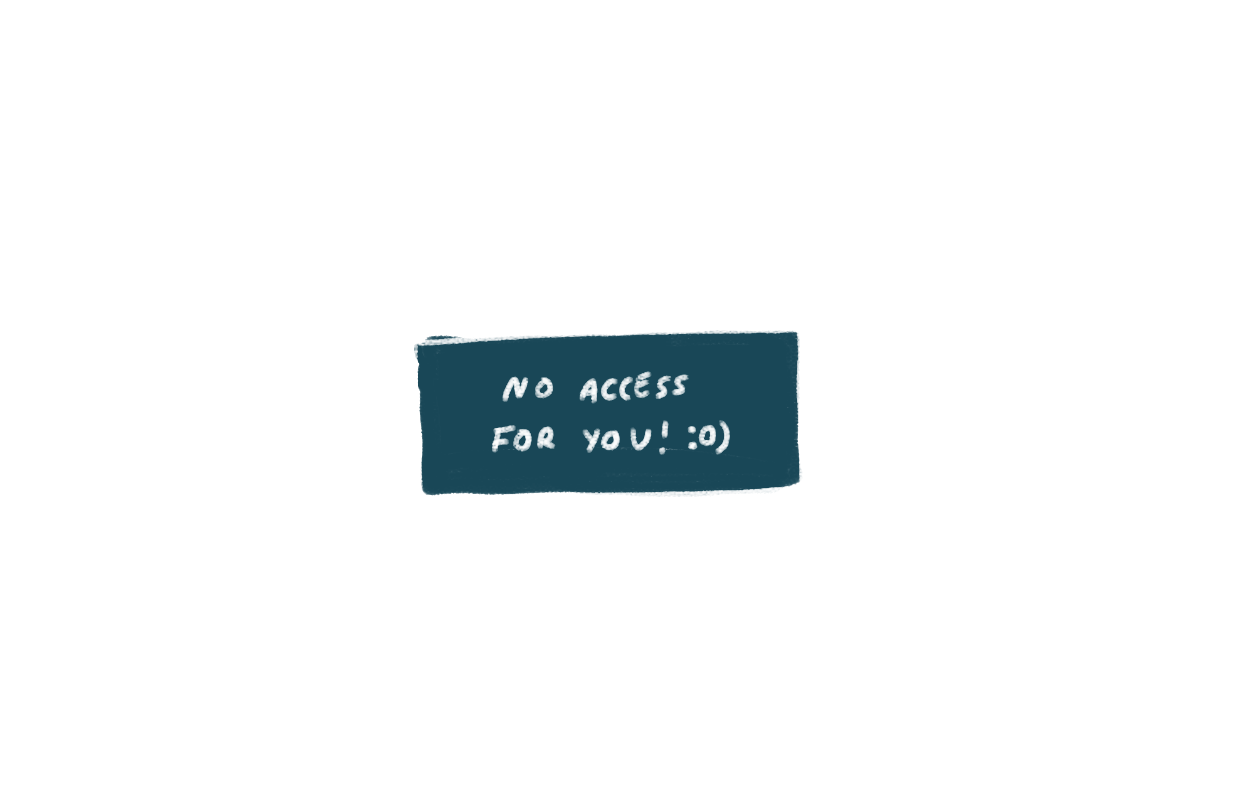
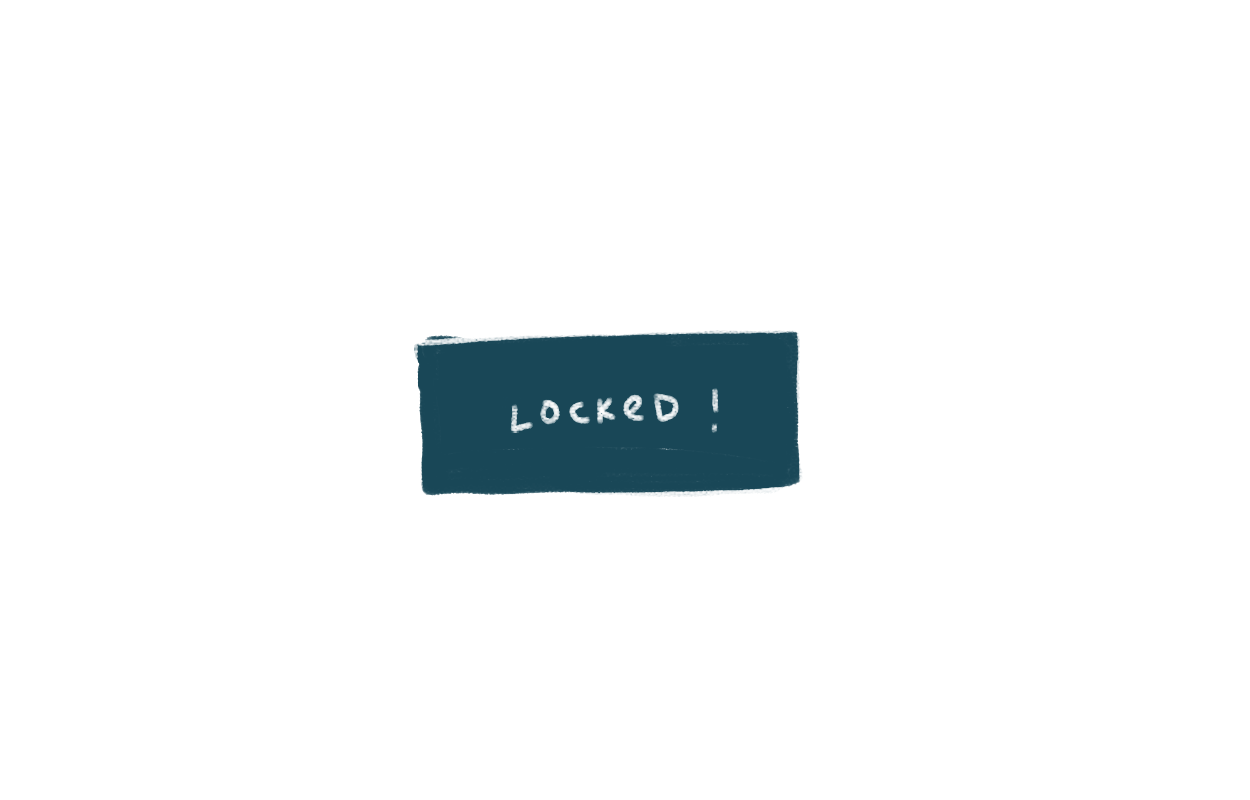
jjj

Changed region(s): [[0.3744, 0.4688, 0.5928, 0.5625]]

diff --git a/project2/1d2.html b/project2/1d2.html
@@ -9,26 +9,33 @@
     <img src="imag/homeicon.png" class="home" alt="homeicon">
     <img src="imag/mapunlocked.png" id="map" alt="mapunlocked" style="position:fixed; z-index:14; display:none;" usemap="#mapunlocked">
       <map name="mapunlocked">
-        <area shape="rect" coords="437,324,500,386" onclick="toccTV()">
-        <area shape="circle" coords="793,335,30" onclick="toccEat()">
-        <area shape="circle" coords="789,439,31" onclick="toccBR()">
-        <area shape="rect" coords="425,455,513,491" onclick="toBedLoop()">
-        <area shape="rect" coords="591,393,679,429" class="dontKnow">
+        <area shape="rect" coords="437,324,500,386" class="gbbshow">
+        <area shape="circle" coords="793,335,30" onclick="toEatd2()">
+        <area shape="circle" coords="789,439,31" onclick="toBR2()">
+        <area shape="rect" coords="425,455,513,491" onclick="toBedd2()">
+        <area shape="rect" coords="591,393,679,429" onclick="toHerd2()">
       </map>
 
       <map name="switch">
         <area shape="rect" coords="940,280,977,333" onclick="onOff()">
       </map>
       <div id="caption4" class="cap"style="background-color:black;"> rise n shine </div>
-      <img src="gfile/nightmornday1n2.gif" alt="nightmornday1n2" style= "z-index:3; position:fixed;">
+      <img src="gfile/nightmornday1n2.gif" alt="nightmornday1n2" style= "z-index:3; position:fixed;" usemap="#switch">
       <img src="imag/1black.png" id="goDark" alt="goDark" style="position: fixed;z-index:20; display:block; opacity:1;">
 
       <img class="room" id="tvday2" src="gfile/tvdday2.gif" alt="tvday2">
-      <img class="room" id="kitchenday2" src="gfile/kitchendday2" alt="">
+      <img class="room" id="tvday2loop" src="gfile/tvdday2loop.gif" alt="tvday2loop">
+      <img class="room" id="kitchendday2" src="gfile/kitchendday2.gif" alt="kitchendday2">
       <img class="room" id="brday2" src="gfile/broccupied.gif" alt="broccupied">
-      <img class="room" id="brday2" src="gfile/broccupiedloop.gif" alt="broccupiedloop">
-      <img class="room" id="bedroom2" src="gfile/" alt="">
-      <img class="room" id="herRoom2" src="gfile/" alt="">
+      <img class="room" id="brday2loop" src="gfile/broccupiedloop.gif" alt="broccupiedloop">
+      <img class="room" id="bedroom2" src="gfile/bedroomclickstay2.gif" alt="bedroomclickstay2" usemap="#switch">
+      <img class="room" id="herRoom2" src="gfile/joinherloopday.gif" alt="joinherloopday" usemap="#flowers">
+      <img src="gfile/cat.gif" id="cat" alt="cat" style="position:fixed;display:none;opacity:0;z-index:6;">
+      <img style="position:fixed; display:none;z-index:7;" id="trunk" src="gfile/trunk.gif" alt="trunk">
+      <map name="flowers">
+        <area shape="circle" coords="648,536,95" onclick="zoomFlowers()" >
+        <area shape="circle" coords="815,425,28" onclick="cat()" >
+      </map>
 
       <img src="imag/switchon.png" id="switchon" alt="switchon" usemap="#off">
         <map name="off">
@@ -36,10 +43,25 @@
         </map>
       <img src="imag/switchoff.png" id="switchoff" alt="switchoff">
 
+      <span class="cap" id="cctvday2" style="background-color:black;">hey, didn't know jon was on this show</span>
+      <span class="cap" id="cctvdaytwo" style="background-color:black;">"its very good jon. its just, the sponginess is not quite there yet.."</span>
+      <span class="cap" id="cckitchend2" style="background-color:black;">ok. but i dont know how to cook anything</span>
+      <span class="cap" id="ccbrday2" style="background-color:black;">fuck shes been in there for hours</span>
+      <span class="cap" id="ccbedroomday2" style="background-color:black;">:0) this is the life</span>
+      <span class="cap" id="ccherroomday2" style="background-color:black;">hmm</span>
+      <span class="cap" id="caption5" style="background-color:black;">o my. their hues are of a delicacy i've never seen before.</span>
+
 
     <div class="textTop" style=" position:fixed; font-size: 12px">
       made in 2001
     </div>
+    <nav id="choiceBox2">
+      <ul>
+        <li onclick="smell()"><a> ( smell them )</a></li>
+        <br>
+        <li onclick="goTo3n2()"><a> ( take them )</a></li>
+      </ul>
+    </nav>
 
 
 
@@ -52,6 +74,18 @@
     var c2= document.getElementById("caption4")
  c2.style.opacity="1"; c2.style.transition ="1.5s";
  setTimeout(function() {c2.style.opacity="0"; c2.style.transition ="1s";},2500);
+
+ function turnOff(){
+   $("#switchon").attr('src','imag/switchoff.png');
+   $("#switchon").attr('usemap','none');
+   $("#goDark").css({'display':'block',})
+   setTimeout(function() {$("#goDark").css({'opacity':'1','transition':'3s'});},100);
+
+   setTimeout(function () {
+    window.location.href = "1n2.html";
+ }, 3500);
+ }
+
 </script>
 <script type="text/javascript" src="jquery-3.4.1.min.js"></script>
 <script type="text/javascript" src="index.js"></script>

diff --git a/project2/index.js b/project2/index.js
@@ -60,6 +60,7 @@ $(".home2").click(function(){
 
 $(".home").click(function(){
   $("#map").toggle();
+
 });
  // first day
 function toTVn1(){
@@ -221,9 +222,97 @@ function toBedLoop(){
 
 // second day
 
+var clicks =0;
+  $('.gbbshow').click(function(){
+     if (clicks==0){
+       $('#tvday2loop').css({'display':'block', 'zIndex':'5'});
+       setTimeout(function(){$('#tvday2').css({'display':'block', 'zIndex':'6'});},1000);
+       setTimeout(function(){$('#tvday2').css('display','none');},1980);
+       $("#bedroom2, #brday2, #brday2loop, #kitchendday2, #herRoom2,#trunk").css("display","none");
 
 
+       $("#map").toggle();
+        setTimeout(function() {$("#cctvday2").css({'opacity':'1','transition':'.5s'});},600);
+        setTimeout(function() {$("#cctvday2").css({'opacity':'0','transition':'.5s'});},3600);
 
+     }else{
+       $('#tvday2loop').css({'display':'block', 'zIndex':'5'});
+       $("#bedroom2, #brday2, #brday2loop, #trunk,#kitchendday2, #herRoom2").css("display","none");
+       $("#map").toggle();
+       setTimeout(function() {$("#cctvdaytwo").css({'opacity':'1','transition':'.5s'});},600);
+       setTimeout(function() {$("#cctvdaytwo").css({'opacity':'0','transition':'.5s'});},4000);
+
+     }
+     ++clicks;
+  });
+  function toEatd2(){
+    $("#kitchendday2").css("display","block");
+    $("#kitchendday2").css("zIndex","5");
+    $("#tvday2,#tvday2loop, #brday2, #brday2loop, #bedroom2, #herRoom2,#trunk").css("display","none");
+    $("#map").toggle();
+    $("#map2").toggle();
+    setTimeout(function() {$("#cckitchend2").css({'opacity':'1','transition':'.5s'});},1000);
+    setTimeout(function() {$("#cckitchend2").css({'opacity':'0','transition':'.5s'});},3000);
+  }
+
+  var clickz=0
+   function toBR2(){
+      if (clickz==0){
+        $('#brday2').css('display','block');
+        $("#brday2").css("zIndex","5");
+        $("#brday2loop").css("zIndex","5");
+        setTimeout(function(){$('#brday2').css('display','none');},1000);
+        setTimeout(function(){$('#brday2loop').css('display','block');},1000);
+        $("#tvday2,#tvday2loop,#bedroom2, #kitchendday2, #herRoom2,#trunk").css("display","none");
+        $("#map").toggle();
+         setTimeout(function() {$("#ccbrday2").css({'opacity':'1','transition':'.5s'});},1000);
+         setTimeout(function() {$("#ccbrday2").css({'opacity':'0','transition':'.5s'});},3000);
+
+      }else{
+        $('#brday2loop').css('display','block');
+        $("#brday2loop").css("zIndex","5");
+        $("#tvday2,#tvday2loop,#bedroom2, #kitchendday2, #herRoom2,#trunk").css("display","none");
+        $("#map").toggle();
+              }
+      ++clickz;
+   };
+
+  function toBedd2(){
+    $("#bedroom2").css("display","block");
+    $("#bedroom2").css("zIndex","5");
+    $("#tvday2,#tvday2loop, #brday2, #brday2loop, #kitchendday2, #herRoom2,#trunk").css("display","none");
+    $("#map").toggle();
+    $("#map2").toggle();
+    $("#ccbedroomday2").css({'opacity':'1','transition':'.5s'});
+    setTimeout(function() {$("#ccbedroomday2").css({'opacity':'0','transition':'.5s'});},3000);
+  }
+
+  function toHerd2(){
+    $("#herRoom2").css("display","block");
+    $("#herRoom2").css("zIndex","5");
+    $("#tvday2,#tvday2loop, #brday2, #brday2loop, #kitchendday2, #bedroom2,#trunk").css("display","none");
+    $("#map").toggle();
+    $("#map2").toggle();
+    setTimeout(function() {$("#ccherroomday2").css({'opacity':'1','transition':'.5s'});},200);
+    setTimeout(function() {$("#ccherroomday2").css({'opacity':'0','transition':'.5s'});},2000);
+  }
+
+      function cat(){
+        $('#cat').css('display','block');
+        setTimeout(function() {$("#cat").css({'opacity':'1','transition':'.5s'});},100);
+        setTimeout(function() {$("#cat").css({'opacity':'0','transition':'.5s'});},1200);
+        setTimeout(function() {$("#cat").css('display','none');},1500);
+  };
+
+  function zoomFlowers(){
+    $('#trunk').css('display','block');
+    $('#caption5').css('display','block');
+    setTimeout(function() {$("#caption5").css({'opacity':'1','transition':'.5s'});},100);
+    var f6= document.getElementById('choiceBox2');
+    f6.style.display="block";
+    setTimeout(function() {f6.style.opacity="1"; f6.style.transition = "1.5s";},2000);
+
+  }
 
 
 

diff --git a/project2/2n1.html b/project2/2n1.html
@@ -1,0 +1,59 @@
+<!DOCTYPE html>
+<head>
+  <title>Home</title>
+  <link rel="stylesheet" href="main.css">
+  <link href="https://fonts.googleapis.com/css?family=Alegreya&display=swap" rel="stylesheet">
+</head>
+<body>
+  <div class="box">
+    <img src="imag/homeicon.png" class="home2" alt="homeicon">
+    <img src="gfile/rightafterloop.gif" alt="rightafterloop" style="position:fixed; z-index:2">
+    <img src="imag/maplocked.png" id="map2" alt="maplocked" style="position:fixed; z-index:14; display:none" usemap="#maplocked">
+    <map name="maplocked">
+      <area shape="rect" coords="437,324,500,386" class="gbbshow">
+      <area shape="circle" coords="793,335,30" onclick="toEatd2()">
+      <area shape="circle" coords="789,439,31" class="occupied">
+      <area shape="rect" coords="425,455,513,491" onclick="toBedd2()">
+      <area shape="rect" coords="591,393,679,429" onclick="noAccess()">
+    </map>
+      <map name="switch">
+        <area shape="rect" coords="940,280,977,333" onclick="onOff()">
+      </map>
+
+      <div id="caption4" class="cap"style="background-color:black;"> thought i could hear someone crying last night but i dunno </div>
+      <img src="gfile/nightmornday1n2.gif" alt="nightmornday1n2" style= "z-index:3; position:fixed;" usemap="#switch">
+      <img src="imag/1black.png" id="goDark" alt="goDark" style="position: fixed;z-index:20; display:block; opacity:1;">
+
+
+<img class="room" id="tvday2" src="gfile/tvdday2.gif" alt="tvday2">
+<img class="room" id="kitchendday2" src="gfile/kitchendday2.gif" alt="kitchendday2">
+<img class="room" id="brday2" src="gfile/broccupied.gif" alt="broccupied">
+<img class="room" id="brday2" src="gfile/broccupiedloop.gif" alt="broccupiedloop">
+<img class="room" id="bedroom2" src="gfile/bedroomclickstay2.gif" alt="bedroomclickstay2" usemap="#switch">
+<img class="room" id="locked" src="imag/locked.png" alt="locked">
+
+
+
+
+    <div class="textTop" style=" position:fixed; font-size: 12px">
+      made in 2001
+    </div>
+
+
+
+  </div>
+
+  <script type="text/javascript">
+    window.onload = function(){
+      $("#goDark").css({'opacity':'0','transition':'1s'})
+      setTimeout(function() {$("#goDark").css({'display':'none',});},1100);};
+      var c2= document.getElementById("caption4")
+   c2.style.opacity="1"; c2.style.transition ="1.5s";
+   setTimeout(function() {c2.style.opacity="0"; c2.style.transition ="1s";},2500);
+  </script>
+
+<script type="text/javascript" src="jquery-3.4.1.min.js"></script>
+<script type="text/javascript" src="index.js"></script>
+<script type="text/javascript" src="imageMapResizer.min.js"></script>
+</body>
+</html>

diff --git a/project2/index.html b/project2/index.html
@@ -27,9 +27,9 @@
     </div>
 <nav id="choiceBox">
   <ul>
-    <li onclick="goTo1d1()"><a> - fall for her </a></li>
+    <li onclick="goTo1d1()"><a> ( fall for her )</a></li>
     <br>
-    <li onclick="goTo2d1()"><a> - ignore your emotions </a></li>
+    <li onclick="goTo2d1()"><a> ( ignore your emotions )</a></li>
   </ul>
 </nav>
 

diff --git a/project2/main.css b/project2/main.css
@@ -11,7 +11,7 @@ body{
   min-height: 1125px;
 }
 li {color:white;}
-li a {cursor: pointer;}
+li a {cursor: pointer;  background-color: #0c171c;}
 li a:hover{font-style: italic; }
 
 .cap{
@@ -80,7 +80,7 @@ img{
 
 li{list-style-type: none;}
 
-#choiceBox{
+#choiceBox, #choiceBox2{
   z-index:10;
   display: none;
   opacity: 0;

diff --git a/project2/1n1.html b/project2/1n1.html
@@ -55,11 +55,7 @@
    setTimeout(function(){oi.style.display= "block";}, 1900);
    c3.style.opacity="1"; c3.style.transition ="2s";
    setTimeout(function() {c3.style.opacity="0"; c3.style.transition ="1s";},4000);
-
-
-
   };
-
   </script>
 
 <script type="text/javascript" src="jquery-3.4.1.min.js"></script>
